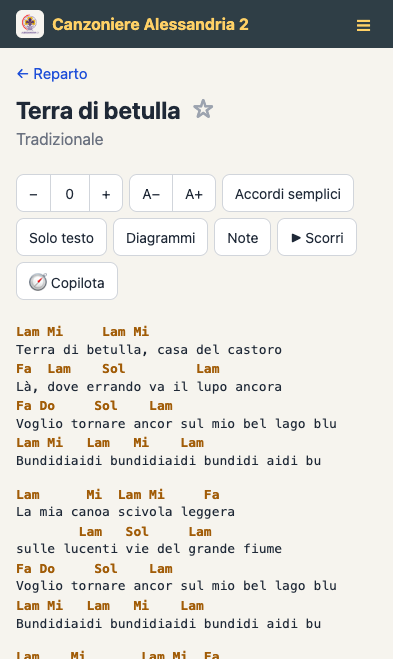
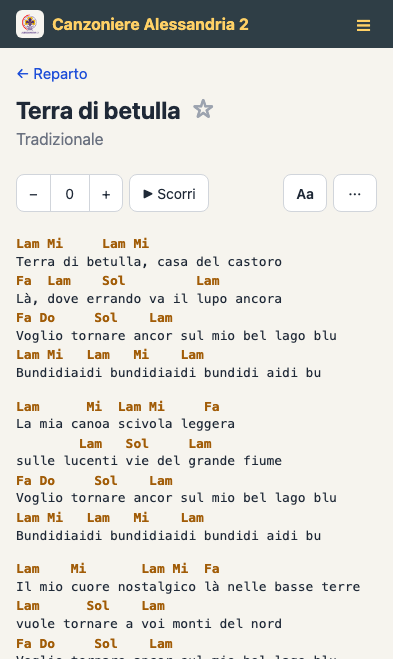
Aggiorna gli screenshot del canto con la nuova barra dei comandi
La pagina del progetto mostra la barra con i menu "Aa" e "⋯" e
descrive la prontezza della modalità studente dove ora si trova, nel
menu "⋯" e nel percorso Studia.

diff --git a/site/template.html b/site/template.html
@@ -310,11 +310,11 @@
                     <p class="eyebrow">Per chi inizia</p>
                     <h2>Imparare la chitarra dentro i canti</h2>
                     <p>Il canzoniere spiega la chitarra da zero: come si tiene, come si accorda, come nascono gli accordi, a cosa serve il capotasto e come si tiene il ritmo. Tutto si può toccare e ascoltare, e il suono lo genera il telefono, quindi funziona anche senza rete.</p>
-                    <p>Con la <strong>modalità studente</strong> quelle spiegazioni entrano nei canti: gli accordi sopra le parole si toccano e si aprono sulla loro scheda, ogni canto dice quanto sei pronto e il pulsante «Studia» lo smonta in accordi, cambi e suonata finale.</p>
+                    <p>Con la <strong>modalità studente</strong> quelle spiegazioni entrano nei canti: gli accordi sopra le parole si toccano e si aprono sulla loro scheda, il menu <em>⋯</em> di ogni canto dice quanti accordi ti mancano e la voce «Studia» lo smonta in accordi, cambi e suonata finale.</p>
                     <ul class="feature-list">
                         <li>Segni gli accordi che sai fare e il canzoniere ti dice cosa puoi già suonare e cosa imparare dopo</li>
                         <li>Ogni accordo ha il diagramma, i passi dito per dito, il suono e la verifica col microfono</li>
-                        <li>Sotto il titolo di un canto: quali accordi ti mancano e, quando c'è, il tono che lo rende suonabile con quelli che sai</li>
+                        <li>Per ogni canto: quali accordi ti mancano e, quando c'è, il tono che lo rende suonabile con quelli che sai</li>
                         <li>I cambi che il canto chiede davvero, con le dita che restano ferme e il metronomo</li>
                     </ul>
                     <a class="section-cta" href="app/impara/">Impara la chitarra →</a>
@@ -323,7 +323,7 @@
                     </div>
                 </div>
                 <div class="media phones">
-                    <div class="phone"><img src="screenshots/reader-studente.png" alt="Un canto in modalità studente: la riga che dice quali accordi mancano e la scheda dell'accordo Fa aperta dal testo" loading="lazy"></div>
+                    <div class="phone"><img src="screenshots/reader-studente.png" alt="Un canto in modalità studente con la scheda dell'accordo Fa, aperta toccandolo nel testo" loading="lazy"></div>
                     <div class="phone"><img src="screenshots/reader-studia.png" alt="Il percorso «Studia questo canto» sul passo dei cambi, con i cambi del canto e il loro conteggio" loading="lazy"></div>
                 </div>
             </div>
